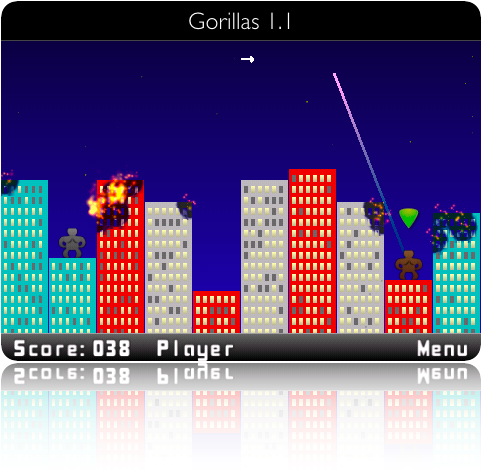
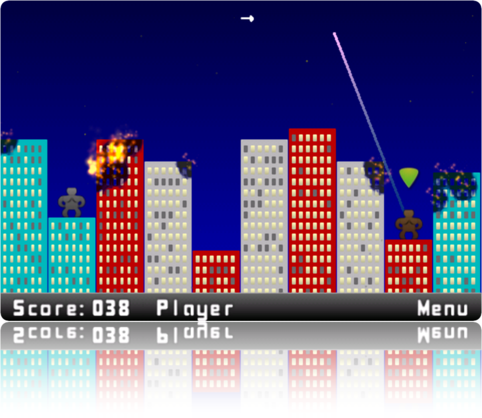
Update for 1.4

diff --git a/src/main/webapp/css/gorillas.css b/src/main/webapp/css/gorillas.css
@@ -1,0 +1,7 @@
+#preview {
+    width:              749px;
+    height:             486px;
+}
+#preview .description, #preview #swf {
+    top:                29px;
+}

diff --git a/src/main/java/com/lyndir/lhunath/gorillas/webapp/listener/GorillasGuiceContext.java b/src/main/java/com/lyndir/lhunath/gorillas/webapp/listener/GorillasGuiceContext.java
@@ -51,7 +51,7 @@ public class GorillasGuiceContext extends PortalGuiceContext {
                              + "They're fighting for control over the city by bombarding each other with explosive bananas.  " //
                              + "One touch on the screen determines the throw's aim and velocity and sends your projectile on "  //
                              + "its way to take out your enemy or the buildings that stand in your way.<br />" //
-                             + "<p>This release combines gorgeous iPhone/iPad/iPod touch features with pure melancholic gameplay.</p>";
+                             + "<p>This release combines gorgeous iOS features with pure melancholic gameplay.</p>";
         AppVersion.register(
                 new AppVersion(
                         gorillas, "100", "1.0", //
@@ -113,6 +113,32 @@ public class GorillasGuiceContext extends PortalGuiceContext {
                         "Voice effects and new (higher quality) audio tracks", //
                         "Localized (currently English, Dutch and Arabic)", //
                         "Auto-zoom when aiming at the very top of the screen" //
+                ) );
+
+        AppVersion.register(
+                new AppVersion(
+                        gorillas, "140", "1.4", //
+                        null, description, //
+                        ImmutableList.of( //
+                                          new Dependency(
+                                                  "Pearl", "https://github.com/Lyndir/Pearl/tree/gorillas-140",
+                                                  "https://github.com/Lyndir/Pearl/tarball/gorillas-140" ),
+                                          new Dependency( "cocos2d-iphone", "https://github.com/lhunath/cocos2d-iphone/tree/gorillas-140",
+                                                          "https://github.com/lhunath/cocos2d-iphone/tarball/gorillas-140" ),
+                                          new Dependency(
+                                                  "PlayHaven", "https://github.com/playhaven/sdk-ios/tree/1.0.2",
+                                                  "https://github.com/playhaven/sdk-ios/tarball/1.0.2" ),
+                                          new Dependency( "uicolor-utilities", "https://github.com/lhunath/uicolor-utilities/tree/30f7f7c",
+                                                          "https://github.com/lhunath/uicolor-utilities/tarball/30f7f7c" ),
+                                          new Dependency( "jrswizzle", "https://github.com/jonmarimba/jrswizzle/tree/98d18ae",
+                                                          "https://github.com/jonmarimba/jrswizzle/tarball/98d18ae" ),
+                                          new Dependency( "Localytics", "http://wiki.localytics.com/doku.php?id=ios4_integration",
+                                                          "http://files.localytics.com/ClientLibraries/iOS4/Localytics-iOS4-Client-latest.source.zip" )), //
+                        new Date( 1314689592L * 1000 ), "Q-s8bimr1GY", //
+                        "Networked multiplayer", //
+                        "Game Center support", //
+                        "Unified menu system", //
+                        "High-resolution artwork" //
                 ) );
     }
 
